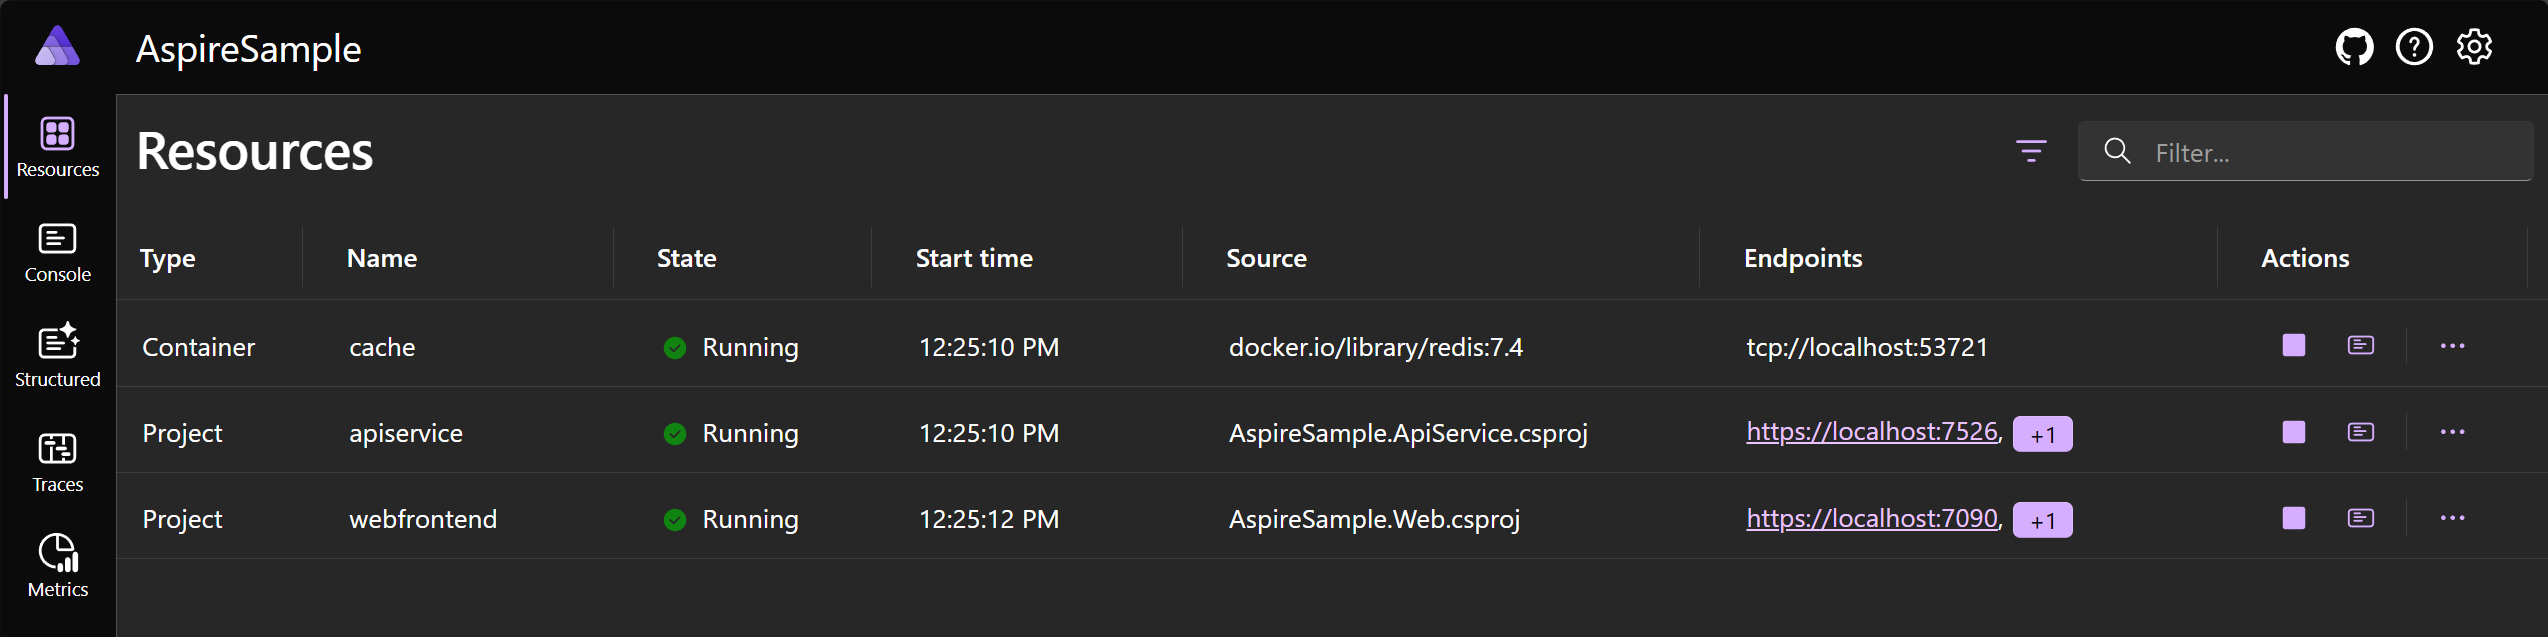
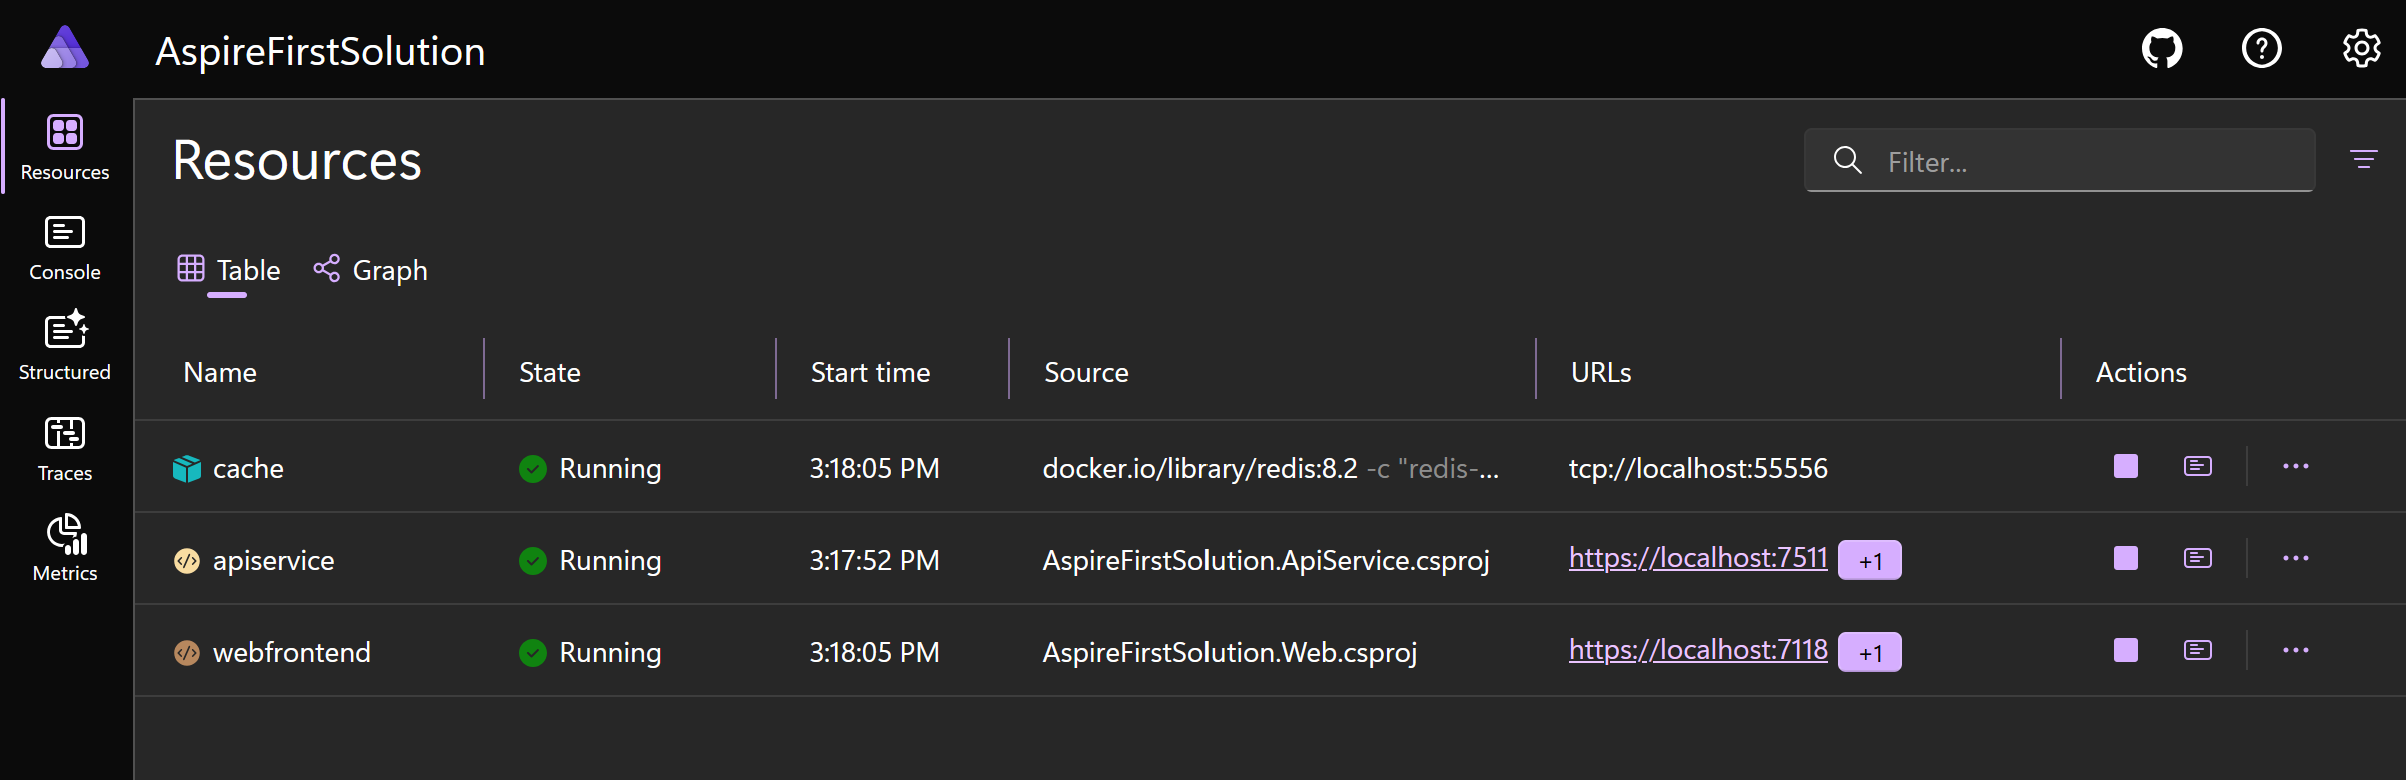
First pass revision of the Build your first Aspire solution article.

diff --git a/docs/get-started/build-your-first-aspire-app.md b/docs/get-started/build-your-first-aspire-app.md
@@ -1,44 +1,39 @@
 ---
 title: Build your first Aspire solution
-description: Learn how to build your first Aspire solution using the Aspire Started Application template.
-ms.date: 11/07/2024
+description: Learn how to build your first Aspire solution using the Aspire Starter application template.
+ms.date: 10/08/2025
 ms.topic: quickstart
-zone_pivot_groups: dev-environment
+zone_pivot_groups: dev-tools
 ms.custom: sfi-ropc-nochange
 ---
 
 # Quickstart: Build your first Aspire solution
 
-Cloud-native apps often require connections to various services such as databases, storage and caching solutions, messaging providers, or other web services. Aspire is designed to streamline connections and configurations between these types of services. This quickstart shows how to create a Aspire Starter Application template solution.
+Cloud-native apps often require connections to various services such as databases, storage and caching solutions, messaging providers, or other web services. Aspire is designed to streamline connections and configurations between these types of services. This quickstart shows how to create an Aspire Starter Application template solution.
 
 In this quickstart, you explore the following tasks:
 
 > [!div class="checklist"]
 >
-> - Create a basic .NET app that is set up to use Aspire.
-> - Add and configure a Aspire integration to implement caching at project creation time.
-> - Create an API and use service discovery to connect to it.
-> - Orchestrate communication between a front end UI, a back end API, and a local Redis cache.
+> - Create a basic app that is set up to use Aspire.
+> - Test the basic functionality of the app.
+> - Use the Aspire dashboard to monitor your app as it runs.
+> - Understand the structure of an Aspire solution.
 
 [!INCLUDE [aspire-prereqs](../includes/aspire-prereqs.md)]
 
-## Create the Aspire template
+## Create the Aspire application
 
-To create a new Aspire Starter Application, you can use either Visual Studio, Visual Studio Code, or the .NET CLI.
+In this quickstart, you can choose whether to use the Aspire CLI or Visual Studio Code to create a new Aspire Starter application.
 
-:::zone pivot="visual-studio"
+:::zone pivot="aspire-cli"
 
-[!INCLUDE [visual-studio-file-new](../includes/visual-studio-file-new.md)]
+[!INCLUDE [aspire-cli-new-app](../includes/aspire-cli-new-app.md)
 
 :::zone-end
 :::zone pivot="vscode"
 
 [!INCLUDE [vscode-file-new](../includes/vscode-file-new.md)]
-
-:::zone-end
-:::zone pivot="dotnet-cli"
-
-[!INCLUDE [dotnet-cli-file-new](../includes/dotnet-cli-file-new.md)]
 
 :::zone-end
 
@@ -51,20 +46,20 @@ The sample app includes a frontend Blazor app that communicates with a Minimal A
 - Weather data is retrieved from the API project using service discovery and displayed on the weather page.
 - Subsequent requests are handled via the output caching configured by the Aspire Redis integration.
 
-:::zone pivot="visual-studio"
+:::zone pivot="aspire-cli"
 
-In Visual Studio, set the **AspireSample.AppHost** project as the startup project by right-clicking on the project in the **Solution Explorer** and selecting **Set as Startup Project**. It might already have been automatically set as the startup project. Once set, press <kbd>F5</kbd> or (<kbd>Ctrl</kbd> + <kbd>F5</kbd> to run without debugging) to run the app.
+1. In the command prompt, navigate to the folder where you created the solution. It will be a subdirectory of the location where you ran the `aspire new` command.
+1. To run the Aspire solution, execute this command:
 
-:::zone-end
-:::zone pivot="dotnet-cli"
+    ```Aspire
+    aspire run
+    ```
 
-You need to trust the ASP.NET Core localhost certificate before running the app. Run the following command:
+1. The `aspire run` command compiles all the projects in the solution, and then locates and runs the AppHost project. It displays information about the solution, including the location of the Aspire dashboard:
 
-```dotnetcli
-dotnet dev-certs https --trust
-```
+    :::image type="content" source="media/aspire-cli-run.png" lightbox="media/aspire-cli-run.png" alt-text="A screenshot of the Aspire CLI running an Aspire solution.":::
 
-For more information, see [Troubleshoot untrusted localhost certificate in Aspire](../troubleshooting/untrusted-localhost-certificate.md). For in-depth details about troubleshooting localhost certificates on Linux, see [ASP.NET Core: GitHub repository issue #32842](https://github.com/dotnet/aspnetcore/issues/32842).
+1. To browse the Aspire dashboard, hold down <kbd>CTRL</kbd> and select the **Dashboard** URL.
 
 :::zone-end
 :::zone pivot="vscode"
@@ -87,15 +82,6 @@ If you're still having an issue, close all browser windows and try again. For mo
 > If you're on MacOS and using Safari, when your browser opens if the page is blank, you might need to manually refresh the page.
 
 :::zone-end
-:::zone pivot="dotnet-cli"
-
-```dotnetcli
-dotnet run --project AspireSample/AspireSample.AppHost
-```
-
-For more information, see [dotnet run](/dotnet/core/tools/dotnet-run).
-
-:::zone-end
 
 1. The app displays the Aspire dashboard in the browser. You look at the dashboard in more detail later. For now, find the **webfrontend** project in the list of resources and select the project's **localhost** endpoint.
 
@@ -108,11 +94,11 @@ For more information, see [dotnet run](/dotnet/core/tools/dotnet-run).
 
 :::image type="content" source="media/weather-page.png" lightbox="media/weather-page.png" alt-text="The Weather page of the webfrontend app showing the weather data retrieved from the API.":::
 
-🤓 Congratulations! You created and ran your first Aspire solution! To stop the app, close the browser window.
+🤓 Congratulations! You created and ran your first Aspire solution! Close the browser window.
 
-:::zone pivot="visual-studio"
+:::zone pivot="aspire-cli"
 
-To stop the app in Visual Studio, select the **Stop Debugging** from the **Debug** menu.
+To stop the app, switch to the command prompt where the `aspire run` command is still running and then press <kbd>CTRL</kbd> + <kbd>C</kbd>.
 
 :::zone-end
 :::zone pivot="vscode"
@@ -122,24 +108,22 @@ To stop the app in Visual Studio Code, press <kbd>Shift</kbd> + <kbd>F5</kbd>, o
 :::image type="content" loc-scope="vs-code" source="media/vscode-stop.png" lightbox="media/vscode-stop.png" alt-text="A screenshot of the Visual Studio Code stop button.":::
 
 :::zone-end
-:::zone pivot="dotnet-cli"
-
-To stop the app, press <kbd>Ctrl</kbd> + <kbd>C</kbd> in the terminal window.
-
-:::zone-end
 
 Next, investigate the structure and other features of your new Aspire solution.
 
 ## Explore the Aspire dashboard
 
-When you run a Aspire project, a [dashboard](../fundamentals/dashboard/overview.md) launches that you use to monitor various parts of your app. The dashboard resembles the following screenshot:
+When you run an Aspire project, a [dashboard](../fundamentals/dashboard/overview.md) launches that you use to monitor various parts of your app. The dashboard resembles the following screenshot:
 
 :::image type="content" source="media/aspire-dashboard.png" lightbox="media/aspire-dashboard.png" alt-text="A screenshot of the Aspire Dashboard, depicting the Projects tab.":::
 
 Visit each page using the left navigation to view different information about the Aspire resources:
 
-- **Resources**: Lists basic information for all of the individual .NET projects in your Aspire project, such as the app state, endpoint addresses, and the environment variables that were loaded in.
-- **Console**: Displays the console output from each of the projects in your app.
+- **Resources**: Lists basic information for all of the individual .NET projects and other resources in your Aspire project, such as the app state, endpoint addresses, and the environment variables that were loaded in. The **Graph** tab displays dependencies between these components:
+
+    :::image type="content" source="media/aspire-dashboard-graph.png" lightbox="media/aspire-dashboard-graph.png" alt-text="A screenshot showing the Graph page of the Aspire dashboard.":::
+
+- **Console**: Displays the console output from each of the resources in your app.
 - **Structured**: Displays structured logs in table format. These logs support basic filtering, free-form search, and log level filtering as well. You should see logs from the `apiservice` and the `webfrontend`. You can expand the details of each log entry by selecting the **View** button on the right end of the row.
 - **Traces**: Displays the traces for your application, which can track request paths through your apps. Locate a request for **/weather** and select **View** on the right side of the page. The dashboard should display the request in stages as it travels through the different parts of your app.
 
@@ -163,70 +147,6 @@ The solution consists of the following projects:
 Your _AspireSample_ directory should resemble the following structure:
 
 [!INCLUDE [template-directory-structure](../includes/template-directory-structure.md)]
-
-## Explore the starter projects
-
-Each project in an Aspire solution plays a role in the composition of your app. The _*.Web_ project is a standard ASP.NET Core Blazor App that provides a front end UI. For more information, see [What's new in ASP.NET Core 9.0: Blazor](/aspnet/core/release-notes/aspnetcore-9.0?view=aspnetcore-9.0&preserve-view=true#blazor). The _*.ApiService_ project is a standard ASP.NET Core Minimal API template project. Both of these projects depend on the _*.ServiceDefaults_ project, which is a shared project that's used to manage configurations that are reused across projects in your solution.
-
-The two projects of interest in this quickstart are the _*.AppHost_ and _*.ServiceDefaults_ projects detailed in the following sections.
-
-### Aspire host project
-
-The _*.AppHost_ project is responsible for acting as a local dev-orchestrator:
-
-:::code language="xml" source="snippets/quickstart/AspireSample/AspireSample.AppHost/AspireSample.AppHost.csproj" highlight="10":::
-
-For more information, see [Aspire orchestration overview](../fundamentals/app-host-overview.md) and [Aspire SDK](../fundamentals/dotnet-aspire-sdk.md).
-
-Consider the _:::no-loc text="AppHost.cs":::_ file of the _AspireSample.AppHost_ project:
-
-:::code source="snippets/quickstart/AspireSample/AspireSample.AppHost/AppHost.cs":::
-
-If you've used either the [.NET Generic Host](/dotnet/core/extensions/generic-host) or the [ASP.NET Core Web Host](/aspnet/core/fundamentals/host/web-host) before, the AppHost programming model and builder pattern should be familiar to you. The preceding code:
-
-- Creates an <xref:Aspire.Hosting.IDistributedApplicationBuilder> instance from calling <xref:Aspire.Hosting.DistributedApplication.CreateBuilder?displayProperty=nameWithType>.
-- Calls <xref:Aspire.Hosting.RedisBuilderExtensions.AddRedis%2A> with the name `"cache"` to add a Redis server to the app, assigning the returned value to a variable named `cache`, which is of type `IResourceBuilder<RedisResource>`.
-- Calls <xref:Aspire.Hosting.ProjectResourceBuilderExtensions.AddProject%2A> given the generic-type parameter with the project's details, adding the `AspireSample.ApiService` project to the application model. This is one of the fundamental building blocks of Aspire, and it's used to configure service discovery and communication between the projects in your app. The name argument `"apiservice"` is used to identify the project in the application model, and used later by projects that want to communicate with it.
-- Calls `AddProject` again, this time adding the `AspireSample.Web` project to the application model. It also chains multiple calls to <xref:Aspire.Hosting.ResourceBuilderExtensions.WithReference%2A> passing the `cache` and `apiService` variables. The `WithReference` API is another fundamental API of Aspire, which injects either service discovery information or connection string configuration into the project being added to the application model. Additionally, calls to the `WaitFor` API are used to ensure that the `cache` and `apiService` resources are available before the `AspireSample.Web` project is started. For more information, see [Aspire orchestration: Waiting for resources](../fundamentals/orchestrate-resources.md#waiting-for-resources).
-
-Finally, the app is built and run. The <xref:Aspire.Hosting.DistributedApplication.Run?displayProperty=nameWithType> method is responsible for starting the app and all of its dependencies. For more information, see [Aspire orchestration overview](../fundamentals/app-host-overview.md).
-
-> [!TIP]
-> The call to <xref:Aspire.Hosting.RedisBuilderExtensions.AddRedis*> creates a local Redis container for the app to use. If you'd rather simply point to an existing Redis instance, you can use the `AddConnectionString` method to reference an existing connection string. For more information, see [Reference existing resources](../fundamentals/app-host-overview.md#reference-existing-resources).
-
-### Aspire service defaults project
-
-The _*.ServiceDefaults_ project is a shared project that's used to manage configurations that are reused across the projects in your solution. This project ensures that all dependent services share the same resilience, service discovery, and OpenTelemetry configuration. A shared Aspire project file contains the `IsAspireSharedProject` property set as `true`:
-
-:::code language="xml" source="snippets/quickstart/AspireSample/AspireSample.ServiceDefaults/AspireSample.ServiceDefaults.csproj" highlight="7":::
-
-The service defaults project exposes an extension method on the <xref:Microsoft.Extensions.Hosting.IHostApplicationBuilder> type, named `AddServiceDefaults`. The service defaults project from the template is a starting point, and you can customize it to meet your needs. For more information, see [Aspire service defaults](../fundamentals/service-defaults.md).
-
-## Orchestrate service communication
-
-Aspire provides orchestration features to assist with configuring connections and communication between the different parts of your app. The _AspireSample.AppHost_ project added the _AspireSample.ApiService_ and _AspireSample.Web_ projects to the application model. It also declared their names as `"webfrontend"` for Blazor front end, `"apiservice"` for the API project reference. Additionally, a Redis server resource labeled `"cache"` was added. These names are used to configure service discovery and communication between the projects in your app.
-
-The front end app defines a typed <xref:System.Net.Http.HttpClient> that's used to communicate with the API project.
-
-:::code source="snippets/quickstart/AspireSample/AspireSample.Web/WeatherApiClient.cs":::
-
-The `HttpClient` is configured to use service discovery. Consider the following code from the _:::no-loc text="Program.cs":::_ file of the _AspireSample.Web_ project:
-
-:::code source="snippets/quickstart/AspireSample/AspireSample.Web/Program.cs" highlight="7-8,14-19":::
-
-The preceding code:
-
-- Calls `AddServiceDefaults`, configuring the shared defaults for the app.
-- Calls <xref:Microsoft.Extensions.Hosting.AspireRedisOutputCacheExtensions.AddRedisOutputCache%2A> with the same `connectionName` that was used when adding the Redis container `"cache"` to the application model. This configures the app to use Redis for output caching.
-- Calls <xref:Microsoft.Extensions.DependencyInjection.HttpClientFactoryServiceCollectionExtensions.AddHttpClient%2A> and configures the <xref:System.Net.Http.HttpClient.BaseAddress?displayProperty=nameWithType> to be `"https+http://apiservice"`. This is the name that was used when adding the API project to the application model, and with service discovery configured, it automatically resolves to the correct address to the API project.
-
-For more information, see [Make HTTP requests with the `HttpClient`](/dotnet/fundamentals/networking/http/httpclient) class.
-
-## Aspire CLI
-
-The Aspire CLI (`aspire` command) is a cross-platform tool that provides command-line functionality to create, manage, run, and publish polyglot Aspire projects. Use the Aspire CLI to streamline development workflows and coordinate services for distributed applications.
-
-For more information, see [Aspire CLI Overview](../cli/overview.md) and [Install Aspire CLI](../cli/install.md).
 
 ## See also
 

diff --git a/docs/includes/aspire-cli-new-app.md b/docs/includes/aspire-cli-new-app.md
@@ -1,0 +1,21 @@
+The Aspire CLI can lead you through the choices necessary to create a new Aspire solution, based on one of the Aspire templates. Complete the following steps to create a project for this quickstart:
+
+1. Open a command prompt and navigate to a folder where you want to work. The Aspire CLI will create a new subdirectory and places the entire solution in it.
+1. To run the Aspire CLI, execute the following command:
+
+    ```Aspire
+    aspire new
+    ```
+
+1. The Aspire CLI presents a list of templates for you to choose from. Select `Starter template` and then press <kbd>Enter</kbd>.
+
+    :::image type="content" source="media/aspire-cli-new-select-template.png" lightbox="media/aspire-cli-new-select-template.png" alt-text="A screenshot of the command prompt running the Aspire CLI.":::
+
+1. Enter a name for the new solution, and then press <kbd>Enter</kbd>.
+1. Enter a folder for the new solution. The default name is the solution name that you just entered.
+1. Select the default version of Aspire, which is the latest version on NuGet. Alternatively you can select the latest daily or stable builds of Aspire.
+1. Choose `Yes` to include a Redis Cache integration in the solution.
+1. Choose `No` to exclude a test project from the solution. The Aspire CLI creates the new solution.
+
+> [!NOTE]
+> You chose not to add a test project to the new solution. You can always add a test project later but it's not needed for this quickstart.

diff --git a/docs/includes/vscode-file-new.md b/docs/includes/vscode-file-new.md
@@ -5,4 +5,4 @@ Visual Studio Code provides Aspire project templates that handle some initial se
 
     :::image type="content" loc-scope="vs-code" source="media/vscode-create-starter-app.png" lightbox="media/vscode-create-starter-app.png" alt-text="A screenshot of the Aspire Starter App template.":::
 
-1. Select a folder for the new project, and the enter a name for it.
+1. Select a folder for the new project, and then enter a name for it.
